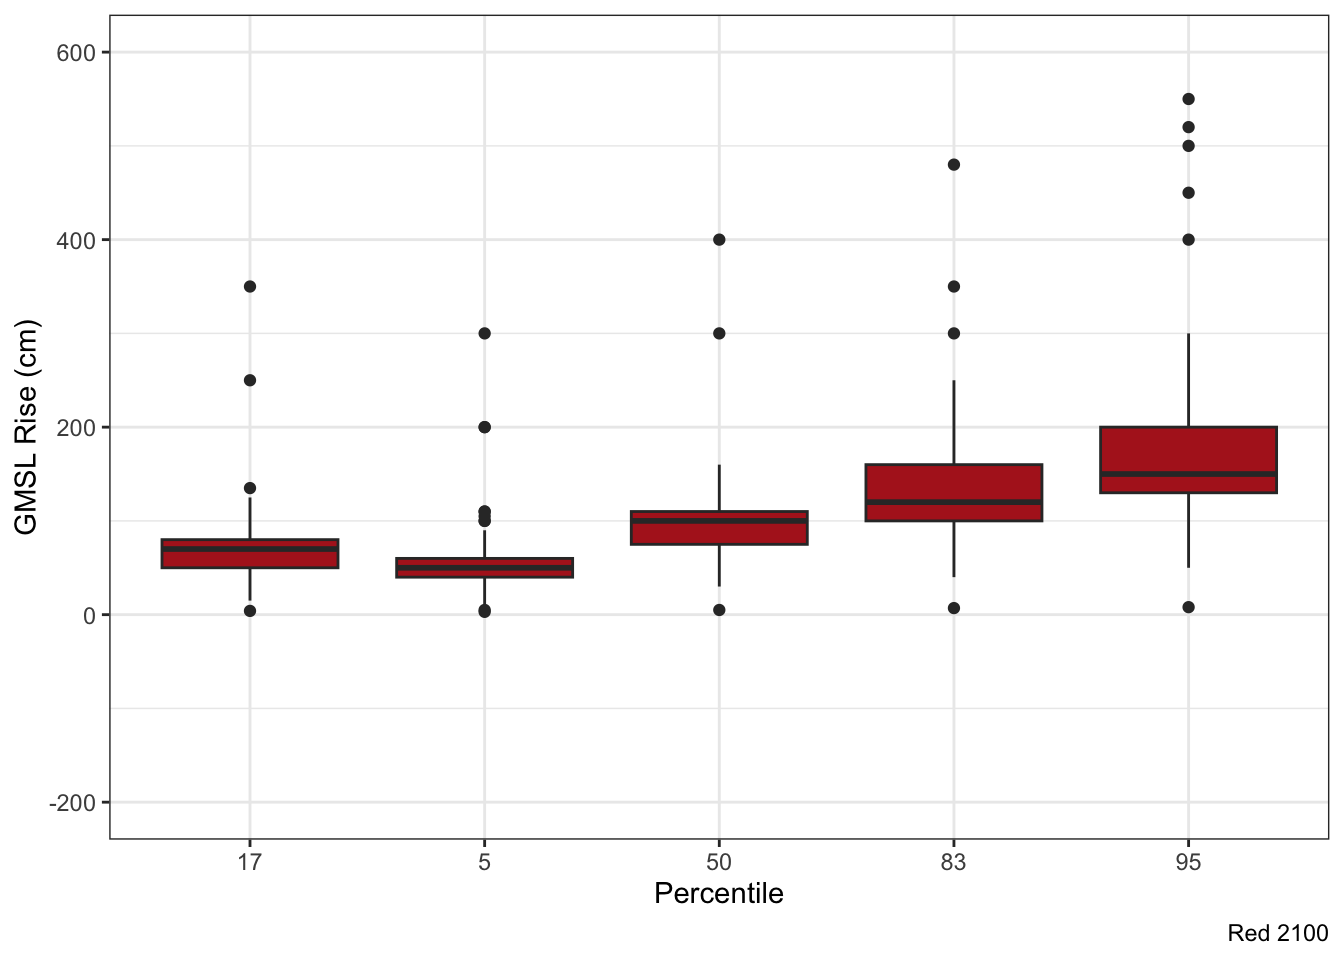
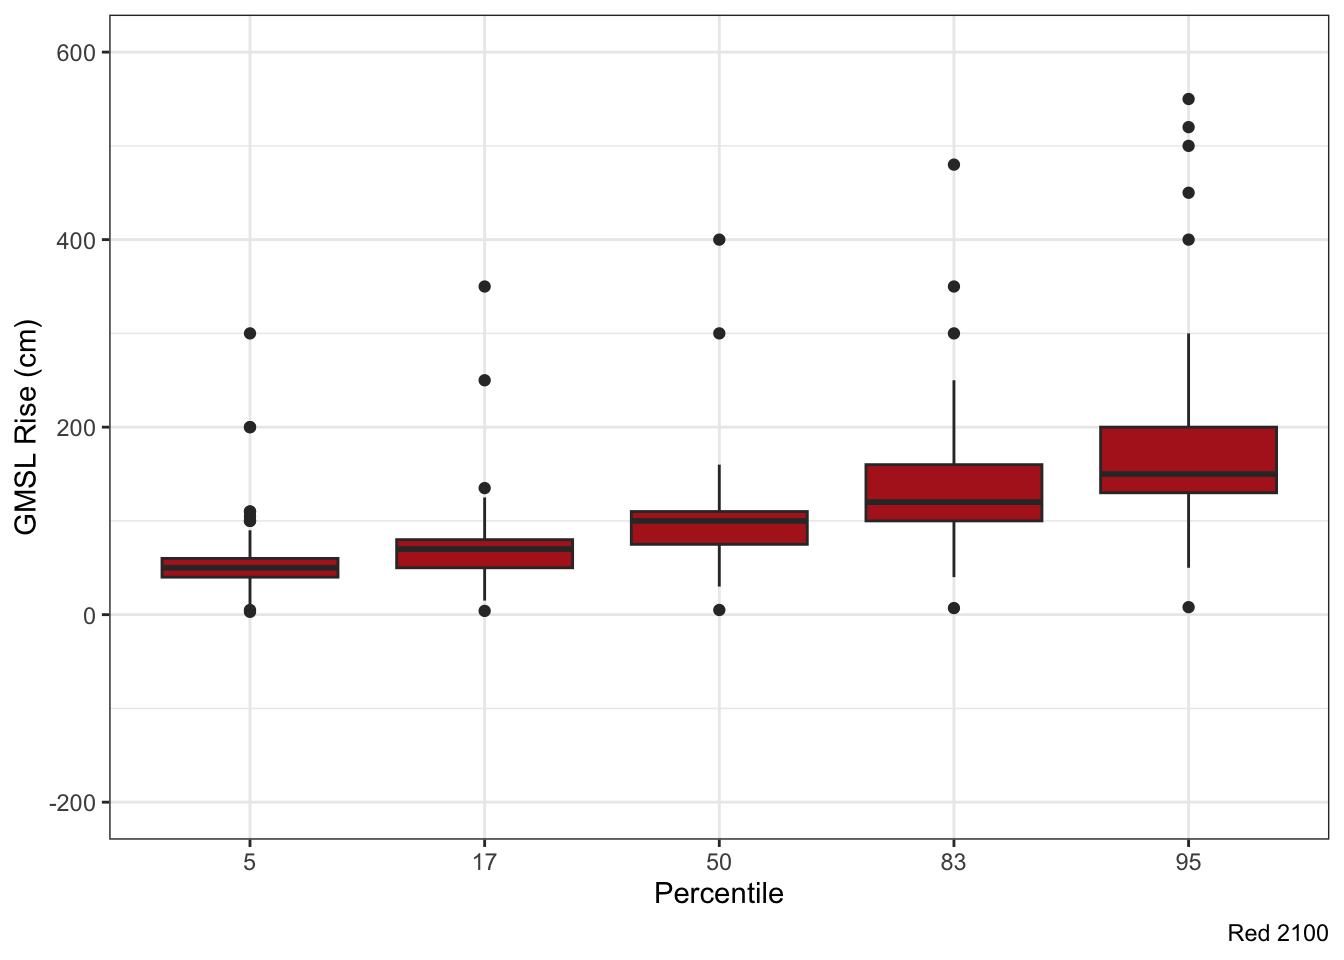
update

diff --git a/docs/4-sampling.html b/docs/4-sampling.html
@@ -617,13 +617,13 @@ $ Red_17_2300  &lt;dbl&gt; NA, 380, 230, 100, 336, 50, 150, 60, 150, 2, 475, NA,
 $ Red_5_2300   &lt;dbl&gt; 140, 300, NA, 90, 220, 30, 125, 40, 100, 1, 400, NA, 55, …</code></pre>
 </div>
 <div class="sourceCode cell-code" id="cb30"><pre class="sourceCode r code-with-copy"><code class="sourceCode r"><span id="cb30-1"><a href="#cb30-1" aria-hidden="true" tabindex="-1"></a>expert_survey_dat_long <span class="ot">&lt;-</span> expert_survey_dat <span class="sc">%&gt;%</span> </span>
-<span id="cb30-2"><a href="#cb30-2" aria-hidden="true" tabindex="-1"></a>                            <span class="fu">pivot_longer</span>(Blue_95_2100<span class="sc">:</span>Red_5_2300,</span>
-<span id="cb30-3"><a href="#cb30-3" aria-hidden="true" tabindex="-1"></a>                                         <span class="at">names_to =</span> <span class="st">"scenario"</span>,</span>
-<span id="cb30-4"><a href="#cb30-4" aria-hidden="true" tabindex="-1"></a>                                         <span class="at">values_to =</span> <span class="st">"prediction"</span>) <span class="sc">%&gt;%</span> </span>
-<span id="cb30-5"><a href="#cb30-5" aria-hidden="true" tabindex="-1"></a>  <span class="fu">separate</span>(<span class="at">col =</span> scenario, <span class="at">into =</span> <span class="fu">c</span>(<span class="st">"Scenario"</span>,<span class="st">"Percentile"</span>,<span class="st">"Year"</span>)) </span>
-<span id="cb30-6"><a href="#cb30-6" aria-hidden="true" tabindex="-1"></a></span>
-<span id="cb30-7"><a href="#cb30-7" aria-hidden="true" tabindex="-1"></a>  </span>
-<span id="cb30-8"><a href="#cb30-8" aria-hidden="true" tabindex="-1"></a>  </span>
+<span id="cb30-2"><a href="#cb30-2" aria-hidden="true" tabindex="-1"></a>  <span class="fu">pivot_longer</span>(Blue_95_2100<span class="sc">:</span>Red_5_2300,</span>
+<span id="cb30-3"><a href="#cb30-3" aria-hidden="true" tabindex="-1"></a>               <span class="at">names_to =</span> <span class="st">"scenario"</span>,</span>
+<span id="cb30-4"><a href="#cb30-4" aria-hidden="true" tabindex="-1"></a>               <span class="at">values_to =</span> <span class="st">"prediction"</span>) <span class="sc">%&gt;%</span> </span>
+<span id="cb30-5"><a href="#cb30-5" aria-hidden="true" tabindex="-1"></a>  <span class="fu">separate</span>(<span class="at">col =</span> scenario, <span class="at">into =</span> <span class="fu">c</span>(<span class="st">"Scenario"</span>,<span class="st">"Percentile"</span>,<span class="st">"Year"</span>)) <span class="sc">%&gt;%</span> </span>
+<span id="cb30-6"><a href="#cb30-6" aria-hidden="true" tabindex="-1"></a>  <span class="fu">mutate</span>(<span class="at">Percentile =</span> <span class="fu">factor</span>(Percentile, <span class="at">levels =</span> <span class="fu">c</span>(<span class="st">"5"</span>,<span class="st">"17"</span>,<span class="st">"50"</span>,<span class="st">"83"</span>,<span class="st">"95"</span>)))</span>
+<span id="cb30-7"><a href="#cb30-7" aria-hidden="true" tabindex="-1"></a></span>
+<span id="cb30-8"><a href="#cb30-8" aria-hidden="true" tabindex="-1"></a></span>
 <span id="cb30-9"><a href="#cb30-9" aria-hidden="true" tabindex="-1"></a>expert_survey_dat_long <span class="sc">%&gt;%</span> <span class="fu">filter</span>(Scenario <span class="sc">==</span> <span class="st">"Red"</span>,Year <span class="sc">==</span> <span class="dv">2100</span>) <span class="sc">%&gt;%</span> </span>
 <span id="cb30-10"><a href="#cb30-10" aria-hidden="true" tabindex="-1"></a>  <span class="fu">ggplot</span>(<span class="fu">aes</span>(<span class="at">x=</span>Percentile,<span class="at">y=</span>prediction)) <span class="sc">+</span></span>
 <span id="cb30-11"><a href="#cb30-11" aria-hidden="true" tabindex="-1"></a>  <span class="fu">geom_boxplot</span>(<span class="at">fill=</span><span class="st">"firebrick"</span>)<span class="sc">+</span></span>
